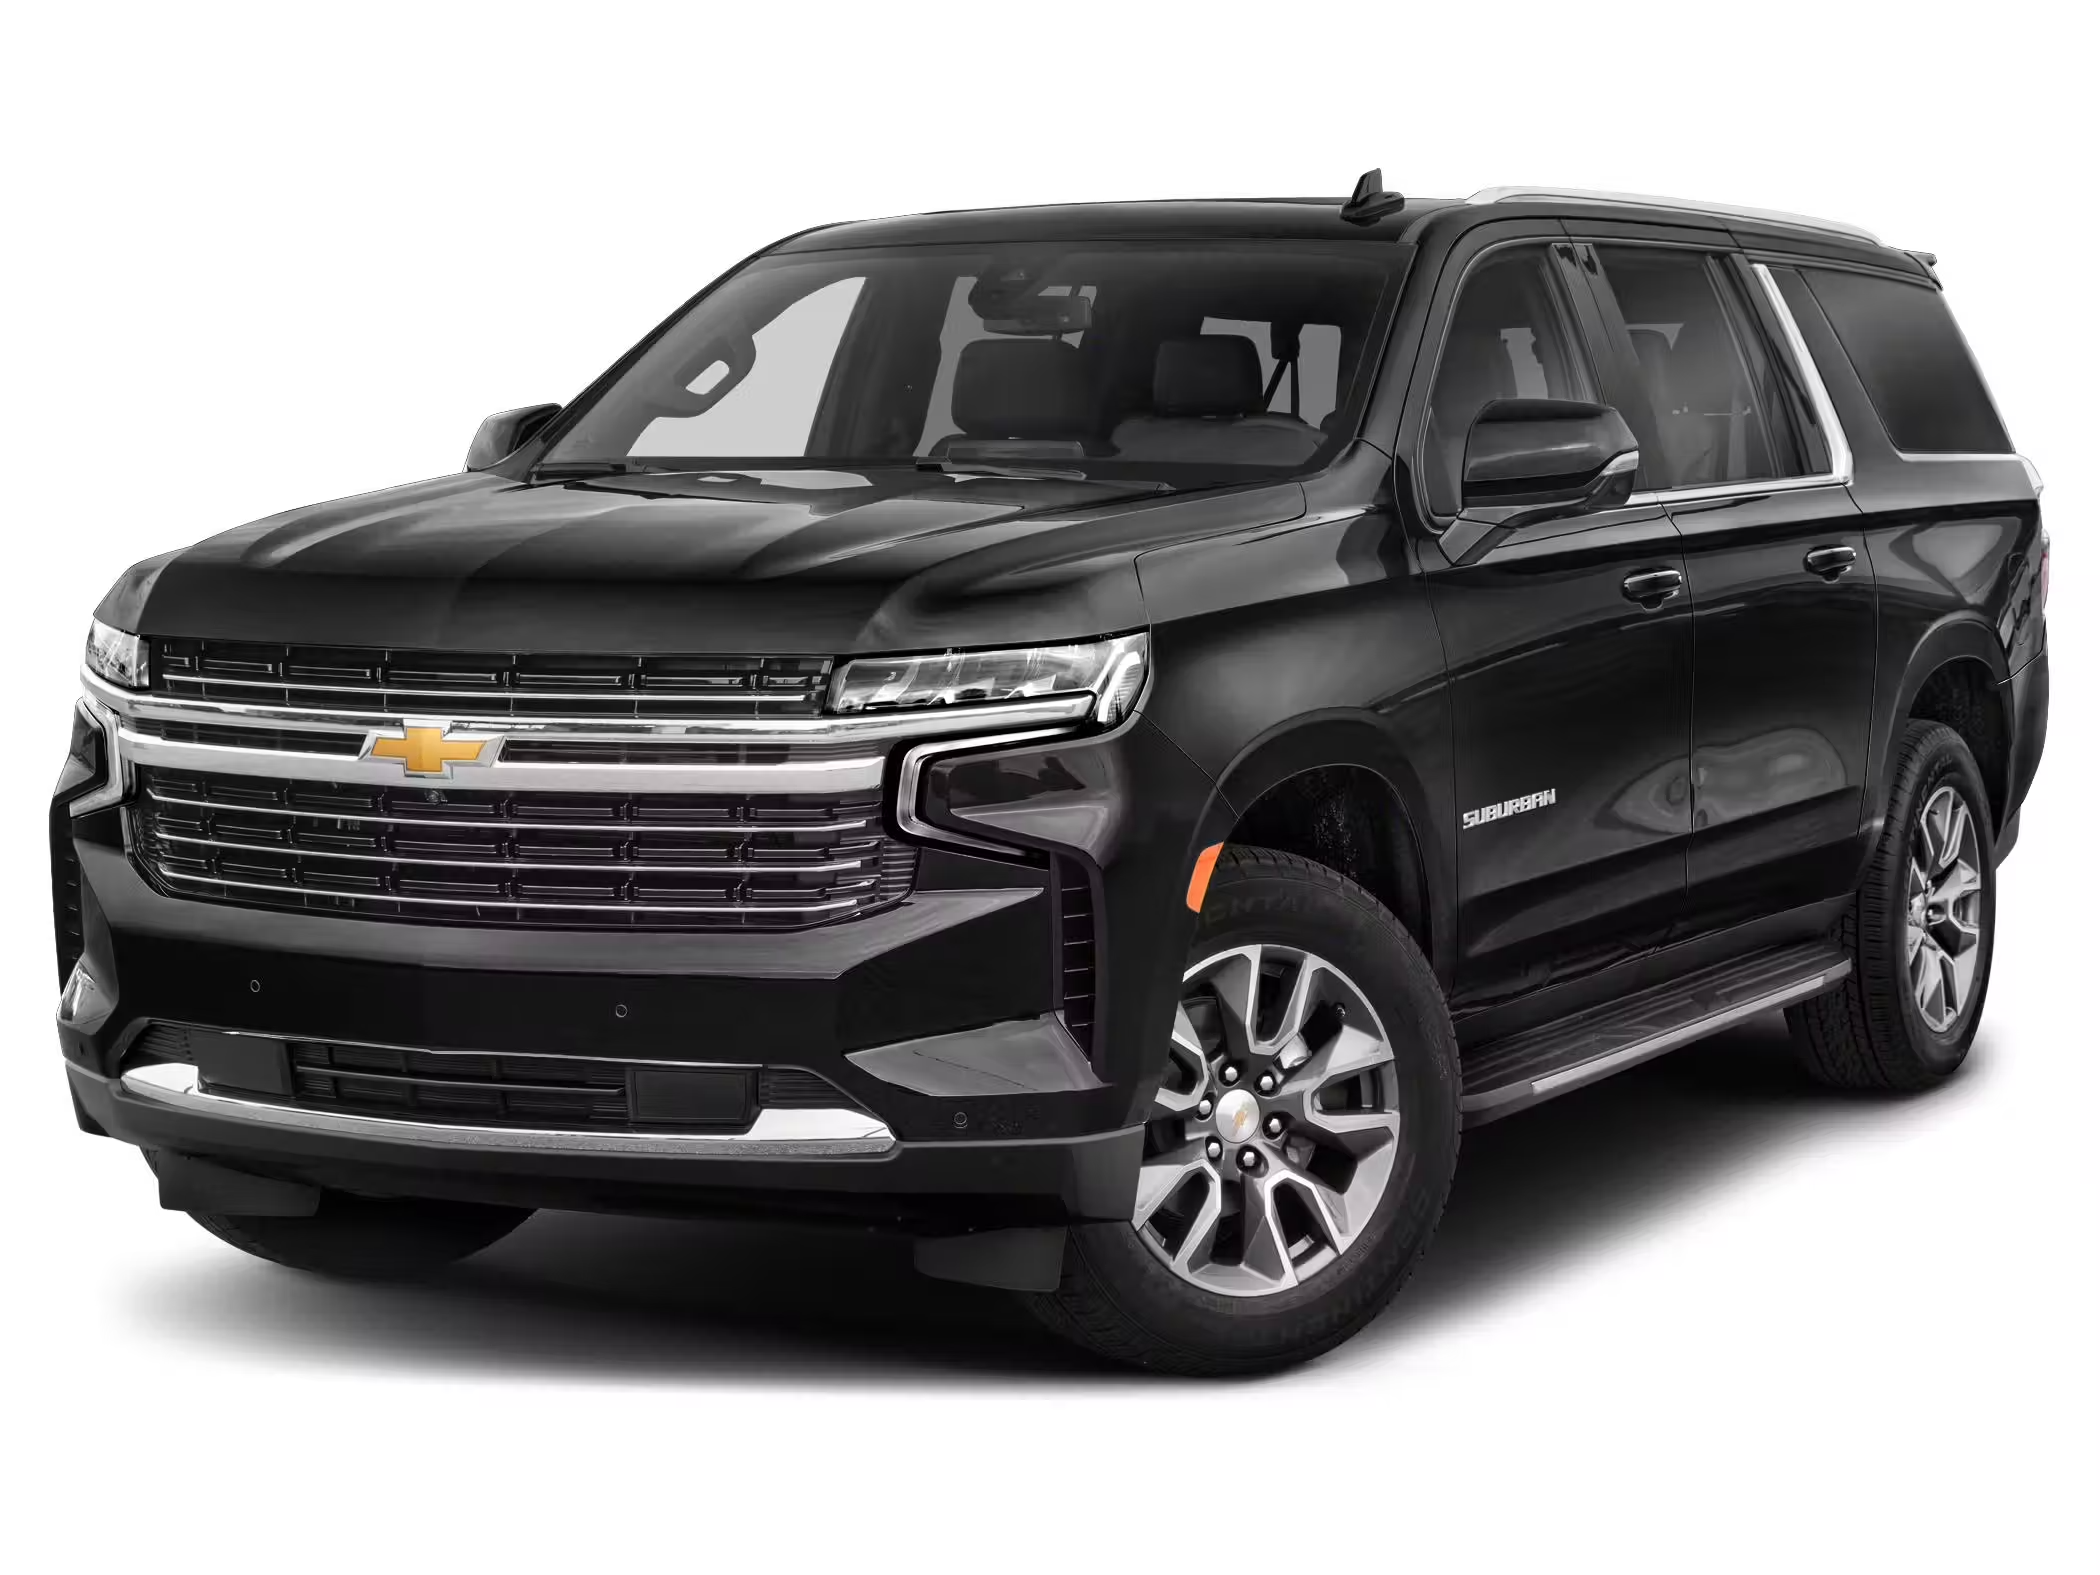
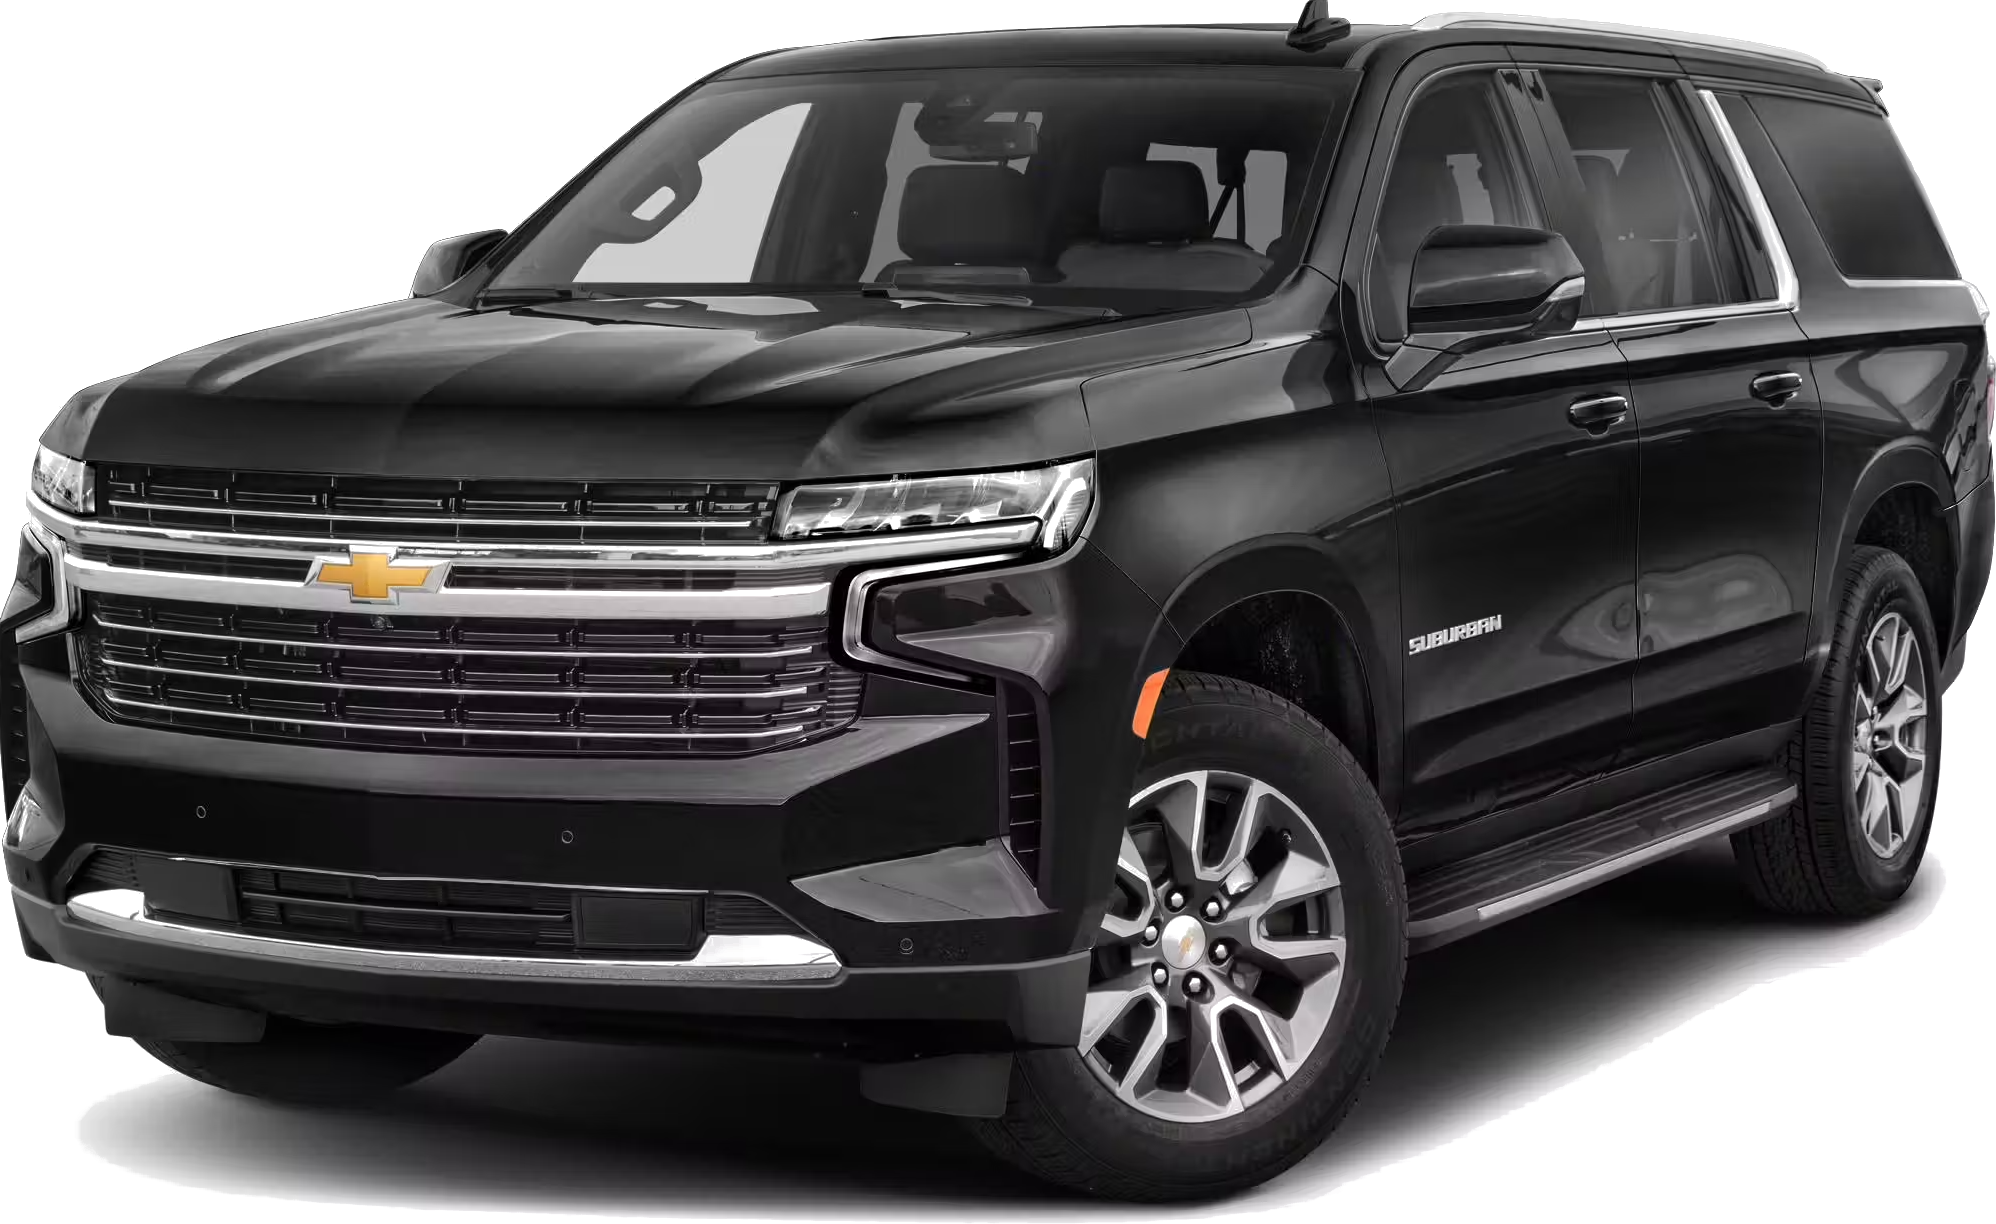
Agent query: Please verify if: 1. The SUV image is now displaying in full without any cropping 2. The image maintains proper proportions 3. The overall layout still looks good with the contain styling

diff --git a/client/src/pages/fleet/BusinessSUV.tsx b/client/src/pages/fleet/BusinessSUV.tsx
@@ -29,7 +29,7 @@ export default function BusinessSUV() {
               <img
                 src="/2024-Chevrolet-Suburban-LT-2024CHS270001_2100_01.png"
                 alt="Chevrolet Suburban Business SUV"
-                className="w-full h-full object-cover rounded-lg"
+                className="w-full h-full object-contain rounded-lg"
                 onError={(e) => {
                   e.currentTarget.src = "https://images.unsplash.com/photo-1532974297617-c0f05fe48bff";
                   e.currentTarget.alt = "Luxury Business SUV - Alternative Image";
